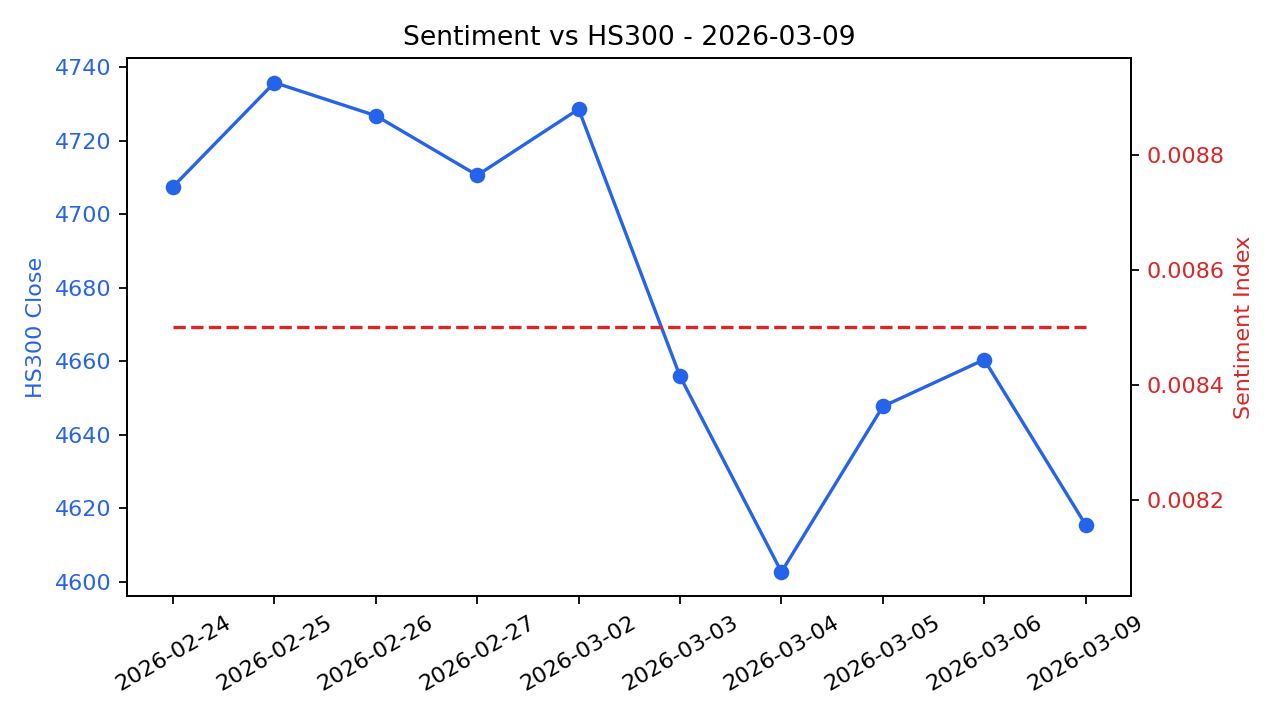
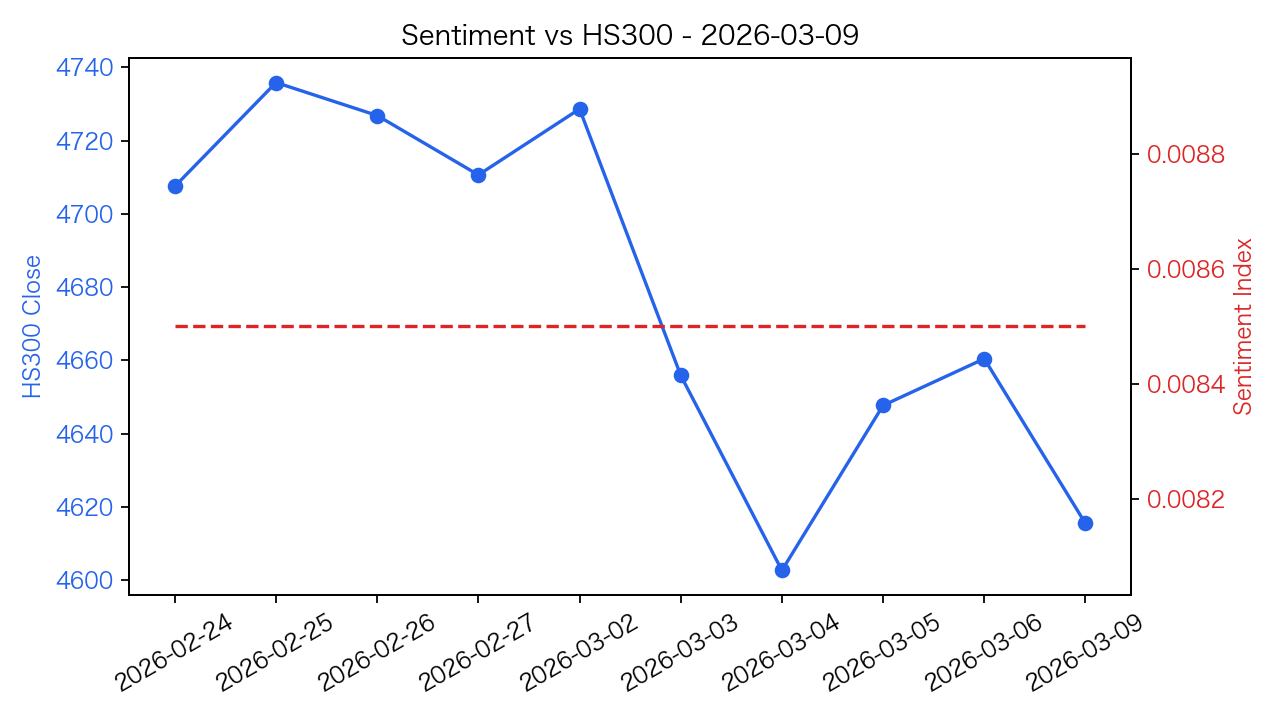
fix: use macOS Chinese font for charts

diff --git a/scripts/build_charts.py b/scripts/build_charts.py
@@ -5,11 +5,31 @@ from datetime import datetime
 from pathlib import Path
 
 import matplotlib.pyplot as plt
+from matplotlib import font_manager, rcParams
 
 BASE_DIR = Path(__file__).resolve().parents[1]
 PROC_DIR = BASE_DIR / "data" / "processed"
 DOCS_ASSETS = BASE_DIR / "docs" / "assets"
 DOCS_ASSETS.mkdir(parents=True, exist_ok=True)
+
+FONT_CANDIDATES = [
+    "/System/Library/Fonts/Hiragino Sans GB.ttc",
+    "/System/Library/Fonts/STHeiti Medium.ttc",
+    "/System/Library/Fonts/Supplemental/Songti.ttc",
+]
+
+
+def setup_chinese_font() -> str:
+    for path in FONT_CANDIDATES:
+        if Path(path).exists():
+            font_manager.fontManager.addfont(path)
+            prop = font_manager.FontProperties(fname=path)
+            font_name = prop.get_name()
+            rcParams["font.family"] = font_name
+            rcParams["axes.unicode_minus"] = False
+            return font_name
+    rcParams["axes.unicode_minus"] = False
+    return "default"
 
 
 def load_today():
@@ -90,8 +110,10 @@ def plot_sentiment_vs_market(today: str, sentiment: dict, market: dict) -> str:
 
 
 def main():
+    font_name = setup_chinese_font()
     today, sentiment, market = load_today()
     outputs = {
+        "font": font_name,
         "label_distribution": plot_label_distribution(today, sentiment),
         "topic_distribution": plot_topic_distribution(today, sentiment),
         "sentiment_vs_hs300": plot_sentiment_vs_market(today, sentiment, market),
@@ -99,6 +121,7 @@ def main():
     out_path = DOCS_ASSETS / "charts.json"
     out_path.write_text(json.dumps(outputs, ensure_ascii=False, indent=2), encoding="utf-8")
     print(f"charts generated: {out_path}")
+    print(f"font selected: {font_name}")
 
 
 if __name__ == "__main__":
